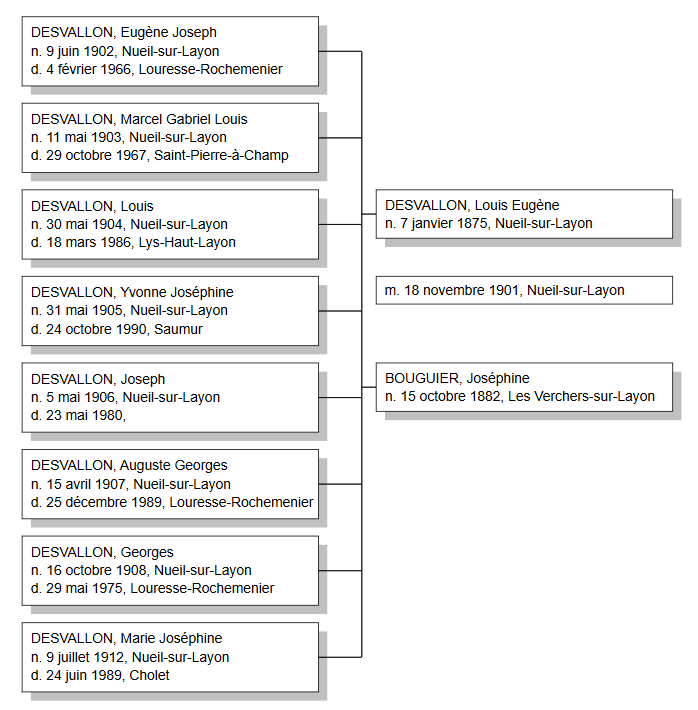
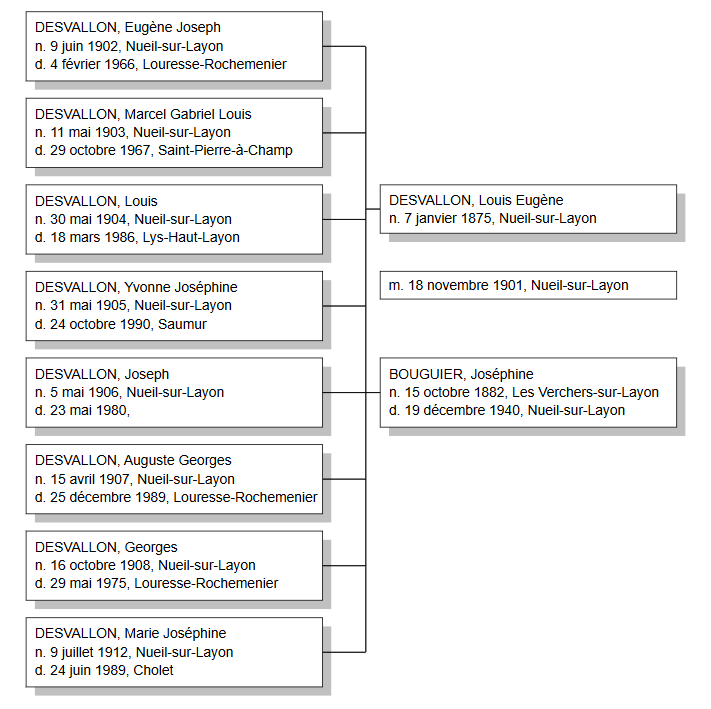
DESVALLON suite

Changed region(s): [[0.0301, 0.0, 0.9928, 0.9929]]

diff --git a/Généalogie.md b/Généalogie.md
@@ -76,7 +76,33 @@ Parfois j'ai des doutes sur certaines informations, auquel cas elles sont en *it
 
 - [Famille DESVALLON](#desvallon)
   
-  - [DESVALLON, Marcel Louis Gabriel](#desvallon1)
+  - Grand-père et arrières-grands-parents paternels
+    
+    - [DESVALLON, Marcel Louis Gabriel](#desvallon1)
+    
+    - [DESVALLON, Marcel Gabriel Louis](#desvallon2)
+    
+    - [POUPARD, Yvonne](#desvallon3)
+  
+  - Trisaïeuls paternels (les parents de l'arrière-grand père)
+    
+    - [DESVALLON, Louis Eugène](#desvallon4)
+    
+    - [BOUGUIER, Joséphine](#desvallon5)
+    
+    - [Mariage de Louis DESVALLON et de Joséphine BOUGUIER](#desvallonbouguier)
+  
+  - Quadrisaïeuls paternels
+    
+    - [DESVALLON, Henri Pierre](#desvallon6)
+    
+    - [JOUET, Françoise Francisque](#desvallon7)
+    
+    - [Mariage de Henri DESVALLON et de Françoise JOUET](#desvallonjouet)
+  
+  - Quinquisaïeuls paternels
+  
+  - 
 
 ---
 
@@ -701,11 +727,11 @@ Source : [https://archives-deux-sevres-vienne.fr/ark:/58825/vta9d80c608f03495a9/
 
 ## VION, Pierre <a name="vion10"/>
 
-### Acte de naissance
+### Acte de naissance, Beaulieu-sous-Bressuire, 10 mars 1780
 
 Malheureusement les actes de naissances à Beaulieu n'existent que depuis 1795.
 
-### Acte de décès
+### Acte de décès, Nueil-les-Aubiers, 23 août 1857
 
 <img src="./ActeDeces/vion_pierre.png"/>
 
@@ -761,11 +787,11 @@ A comparu Pierre Louis VEILLON, métayer à Nueil
 
 ## MOREAU, Marie Madeleine <a name="vion11"/>
 
-### Acte de naissance
+### Acte de naissance, Brétignolles, 28 nobembre 1782
 
 Malheureusement les actes de naissances à Brétignolles n'existent que depuis 1803.
 
-## Acte de décès
+## Acte de décès, La Coudre, 3 mars 1845
 
 <img src="./ActeDeces/moreau_marie.png"/>
 
@@ -844,7 +870,7 @@ se serait marié probablement à Boismé (commune de naissance de son épouse) a
 
 ## RICHARD, Perrine <a name="vion13"/>
 
-### Acte de décès
+### Acte de décès, Beaulieu-sous-Bressuire, 31 janvier 1815
 
 <img src="./ActeDeces/richard_perrine.png"/>
 
@@ -878,7 +904,7 @@ Les arrières-grands-parents DESVALLON sont issus du Maine-et-Loire, qui est un 
 
 Source : "[DESVALLON MARCEL GABRIEL LOUIS (1927 - 1974) &#224; Cersay - d&#233;c&#232;s](https://deces.politologue.com/desvallon-marcel-gabriel-louis.uOvYVG70rO7OVpv0MO9jKOvjROLThGv0rG7Y9GLn)"
 
-## DESVALLON, Marcel <a name="desvallon2"/>
+## DESVALLON, Marcel Gabriel Louis <a name="desvallon2"/>
 
 ### Succession
 
@@ -890,22 +916,229 @@ Source : [https://archives-deux-sevres-vienne.fr/ark:/58825/vta156cbad4a8c6111a/
 
 Source : [POUPARD YVONNE (1906 - 1994) &#224; Saumur - d&#233;c&#232;s](https://deces.politologue.com/poupard-yvonne.uOvYRG70gOvX8pvOApP0-OL-MCvXrpv0MOvjApvxROv08)
 
-
-
 ## Condamnation pour vol d'octobre 1927
 
 <img src="./Justice/tribunal_saumur_1927.png"/>
 
 Source : [L'Ouest-Éclair | 1927-10-10 | Gallica](https://gallica.bnf.fr/ark:/12148/bpt6k612106k/f6.item.zoom)
 
-
-
-
+---
 
 <img src="./Arbre/desvallon2.png"/>
 
 ## DESVALLON, Louis Eugène <a name="desvallon4"/>
 
+### Acte de naissance, Nueil-sur-Layon, 7 janvier 1875
 
+<img src="./ActeNaissance/desvallon_louis_eugene.png"/>
 
-## BOUGUIER Joséphine <a name="desvallon5"/>
+Source : [Registres d'état civil - Visualiseur](https://www.archinoe.fr/v2/ad49/visualiseur/registre.html?id=490039242)
+
+#### Résumé
+
+| Commune                     | Nueil-sur-Layon, canton de Vihiers                            |
+| --------------------------- | ------------------------------------------------------------- |
+| **Enfant**                  | Gabriel Joseph Alexandre VION                                 |
+| **Naissance**               | 7 janvier 1875 à 15h00                                        |
+| **Père, âge et profession** | Henri DESVALLON, journalier de 42 ans                         |
+| **Mère, âge et profession** | Françoise JOUET, journalière de 38 ans                        |
+| **Domicile**                | La Boissonière, Nueil-sur-Layon                               |
+| **Témoin 1**                | Alexandre Auguste JAUDOIN, instituteur de 32 ans, ami du père |
+| **Témoin 2**                | François DECRON, journalier de 69 ans, ami du père            |
+
+### Service militaire
+
+<img src="./Militaire/desvallon_louis.png"/>
+
+Source : [1 R 1246 - Classe 1895 - matricule n°1297 - Visualiseur](https://www.archinoe.fr/v2/ark:/71821/56701557196d982e417d724773da3ae0)
+
+Matricule n° 1297, Louis Eugène DESVALLON
+
+Né le 7 janvier 1875 à Nueil s/ Passavant, canton de Vihiers, y résidant, fils de Henri DESVALLON et de Françoise JOUET, habitants aussi à Nueil s/ Passavant
+
+Cheveux et sourcils bruns, yeux roux, front ordinaire, nez moyen, bouche moyenne, menton rond, visage ovale. Taille : 1m63
+
+Appelé à l'activité le 16 novembre 1896 au 7ème régiment de chasseurs à cheval. Chasseur de 1ère classe
+
+Père de 6 enfants (au moment de la rédaction de la fiche)
+
+## BOUGUIER, Joséphine <a name="desvallon5"/>
+
+### Acte de naissance, Les Verchers-sur-Layon, 15 octobre 1882
+
+<img src="./ActeNaissance/bouguier_josephine.png"/>
+
+Source : [Registres d'état civil - Visualiseur](https://www.archinoe.fr/v2/ad49/visualiseur/registre.html?id=490038742)
+
+#### Résumé
+
+| Commune                     | Les Verchers-sur-Layon, canton de Doué-la-Fontaine  |
+| --------------------------- | --------------------------------------------------- |
+| **Enfant**                  | Joséphine BOUGUIER                                  |
+| **Naissance**               | 15 octobre 1882 à 11h00                             |
+| **Père, âge et profession** | Joseph BOUGUIER, 32 ans, cultivateur                |
+| **Mère, âge et profession** | Modeste Henriette CHARPENTIER, 28 ans, cultivatrice |
+| **Domicile**                | Les Verchers-sur-Layon                              |
+| **Témoin 1**                | Auguste MORILLON, <mark>charron </mark> de 34 ans   |
+| **Témoin 2**                | Pierre COCU, maréchal de 30 ans                     |
+
+Le **<mark>charron</mark>** utilise le bois et le fer pour construire et réparer des véhicules attelés. Le cœur de son métier est sa maîtrise de la roue. Le moyeu est en orme, les raies en acacia et les jantes en frêne.
+
+## Mariage de Louis DESVALLON et de Joséphine BOUGUIER <a name="desvallonbouguier"/>
+
+<img src="./ActeMariage/desvallon_bouguier.png"/>
+
+Source : [Registres d'état civil - Visualiseur](https://www.archinoe.fr/v2/ad49/visualiseur/registre.html?id=490041681)
+
+#### Résumé
+
+| Commune                           | Nueil-sur-Layon, canton de Vihiers                                                                                                              |
+| --------------------------------- | ----------------------------------------------------------------------------------------------------------------------------------------------- |
+| **Mari**                          | Louis Eugène DESVALLON, domestique âgé de 26 ans, né le 7 janvier 1875 dans cette commune. Fils de Henri DESVALLON et , cultivateurs domiciliés |
+| **Femme**                         | Joséphine BOUGUIER, couturière de 19 ans, née le 15 octobre 1882 aux Verchers                                                                   |
+| **Mariage**                       | 18 novembre 1901                                                                                                                                |
+| **Père du marié**                 | Henri DESVALLON, cultivateur à la Caillonnerie de Nueil, ici présent                                                                            |
+| **Mère du marié**                 | Françoise JOUET, cultivateur à la Caillonnerie de Nueil, ici présente                                                                           |
+| **Père de la mariée**             | Joseph BOUGUIER, cultivateur à Nueil, ici présent                                                                                               |
+| **Mère de la mariée**             | Modeste Henriette CHARPENTIER, cultivateur à Nueil, ici présente                                                                                |
+| **Domicile**                      | Nueil-sur-Layon                                                                                                                                 |
+| **Témoin 1 : frère du marié**     | François DESVALLON, cultivateur de 37 ans domicilié à Bouillé-Saint-Paul                                                                        |
+| **Témoin 2 : cousin du marié**    | Auguste FRESNEAU, journalier de 45 ans à Nueil                                                                                                  |
+| **Témoin 3 : oncle de la mariée** | Pierre BOUGUIER, cultivateur de 48 ans à Nueil                                                                                                  |
+| **Témoin 4 : oncle de la mariée** | David LOUIS, cultivateur de 63 ans à Cléré                                                                                                      |
+
+---
+
+<img src="./Arbre/desvallon3.png"/>
+
+## DESVALLON, Henri Pierre <a name="desvallon6">
+
+### Acte de naissance, Moutiers-sous-Argenton, 4 mai 1833
+
+<img src="./ActeNaissance/desvallon_pierre_henri.png"/>
+
+Source : [https://archives-deux-sevres-vienne.fr/ark:/58825/vta38a8995f24456bf9/daogrp/0/layout:table/idsearch:RECH_9f327360164f4f6d8503478c6f421560#id:1120044653?gallery=true&brightness=100.00&contrast=100.00¢er=1440.968,-1845.069&zoom=11&rotation=0.000](https://archives-deux-sevres-vienne.fr/ark:/58825/vta38a8995f24456bf9/daogrp/0/layout:table/idsearch:RECH_9f327360164f4f6d8503478c6f421560#id:1120044653?gallery=true&brightness=100.00&contrast=100.00&center=1440.968,-1845.069&zoom=11&rotation=0.000)
+
+#### Résumé
+
+| Commune                     | Moutiers-sous-Argenton, arrondissement de Bressuire |
+| --------------------------- | --------------------------------------------------- |
+| **Enfant**                  | Pierre Henri DESVALLON                              |
+| **Naissance**               | 4 mai 1833 à 14h00                                  |
+| **Père, âge et profession** | Louis DESVALLON, 46 ans, bordier                    |
+| **Mère, âge et profession** | Louise BRAULT, 34 ans                               |
+| **Domicile**                | Bourg de Moutiers                                   |
+| **Témoin 1**                | Louis MERCERON, cultivateur de 45 ans à Moutiers    |
+| **Témoin 2**                | François MERCERON, cultivateur de 42 ans à Moutiers |
+
+## Acte de décès, Nueil-sur-Layon, 10 décembre 1901
+
+<img src="./ActeDeces/desvallon_henri.png"/>
+
+Source : [Registres d'état civil - Visualiseur](https://www.archinoe.fr/v2/ad49/visualiseur/registre.html?id=490041681)
+
+#### Résumé
+
+| Commune                   | Nueil-sur-Layon, canton de Vihiers                                                 |
+| ------------------------- | ---------------------------------------------------------------------------------- |
+| **Décédé**                | Pierre Henri DESVALLON, jouurnalier de 68 ans, époux de Françoise Francisque JOUET |
+| **le**                    | 10 décembre 1901 à 2h00 du matin                                                   |
+| **Père**                  | Louis DESVALLON, décédé                                                            |
+| **Mère**                  | Louise BRAULT, décédée                                                             |
+| **Domicile**              | La Caillonerie, Nueil-sur-Layon                                                    |
+| **Témoin 1 et déclarant** | Joseph TALBOT, fermier de 59 ans, voisin du défunt                                 |
+| **Témoin 2**              | Pierre MORET, cultivateur de 66 ans, ami du défunt                                 |
+
+## JOUET, Françoise Francisque <a name="desvallon7"/>
+
+### Acte de naissance, Nueil-sur-Layon, 15 décembre 1836
+
+<img src="./ActeNaissance/jouet_francoise.png"/>
+
+Source : [Registres d'état civil - Visualiseur](https://www.archinoe.fr/v2/ad49/visualiseur/registre.html?id=490005397)
+
+#### Résumé
+
+| Commune                     | Nueil-sur-Layon, canton de Vihiers        |
+| --------------------------- | ----------------------------------------- |
+| **Enfant**                  | Françoise Francisque JOUET                |
+| **Naissance**               | 15 décembre 1836 à 6h00 du matin          |
+| **Père, âge et profession** | Louis JOUET, 30 ans, cultivateur          |
+| **Mère, âge et profession** | Margueritte NOMBALAIS, 31 ans             |
+| **Domicile**                | Nueil-sur-Layon                           |
+| **Témoin 1**                | André Lemoine, propriétaire, 24 ans       |
+| **Témoin 2**                | Michel Claude GUJARD, instituteur, 29 ans |
+
+## Mariage de Henri DESVALLON et de Françoise JOUET <a name="desvallonjouet"/>
+
+<img src="./ActeMariage/desvallon_jouet.png"/>
+
+Source : [Registres d'état civil - Visualiseur](https://www.archinoe.fr/v2/ad49/visualiseur/registre.html?id=490005399)
+
+#### Résumé
+
+| Commune                           | Nueil-sur-Layon, canton de Vihiers                          |
+| --------------------------------- | ----------------------------------------------------------- |
+| **Mari**                          | Pierre Henri DESVALLON, domestique,                         |
+| **Femme**                         | Françoise Francisque JOUET, domestique                      |
+| **Mariage**                       | 25 juin 1857                                                |
+| **Père du marié**                 | Louis DESVALLON, décédé à Mauzé-Thouarsais le 11 avril 1849 |
+| **Mère du marié**                 | Louise BRAULT, journalière, ici présente                    |
+| **Père de la mariée**             | Louis JOUET, ici présent                                    |
+| **Mère de la mariée**             | Margueritte NOMBALAIS, ici présente                         |
+| **Domicile**                      | La Touche, les Verchers-sur-Layon                           |
+| **Témoin 1 : frère du marié**     | Alexis DESVALLON, journalier de 42 ans à Nueil              |
+| **Témoin 2 : ami des mariés**     | Suzanne PERDRIX, cordonnier à Nueil de 26 ans               |
+| **Témoin 3 : frère de la mariée** | Jean JOUET, domestique de 24 ans à Nueil                    |
+| **Témoin 4 : ami des mariés**     | Charles LEMOINE, meunier à Nueil de 44 ans                  |
+
+---
+
+<img src="./Arbre/desvallon4.png"/>
+
+## DESVALLON, Louis Alexis
+
+### Baptême, Louin, 27 août 1786
+
+<img src="./ActeNaissance/desvallon_alexis_louis.png"/>
+
+Source : [https://archives-deux-sevres-vienne.fr/ark:/58825/vta39b3739a54f651fc/daogrp/0/layout:table/idsearch:RECH_070c9ef961e726461ccd0738ce4cf696#id:889279093?gallery=true&brightness=100.00&contrast=100.00¢er=1484.533,-1173.236&zoom=10&rotation=0.000](https://archives-deux-sevres-vienne.fr/ark:/58825/vta39b3739a54f651fc/daogrp/0/layout:table/idsearch:RECH_070c9ef961e726461ccd0738ce4cf696#id:889279093?gallery=true&brightness=100.00&contrast=100.00&center=1484.533,-1173.236&zoom=10&rotation=0.000)
+
+#### Résumé
+
+| Commune                     | Louin, entre Bressuire et Parthenay |
+| --------------------------- | ----------------------------------- |
+| **Enfant**                  | Alexis Louis DESVALLON              |
+| **Baptême et naissance**    | 27 août 1786                        |
+| **Père, âge et profession** | Louis DESVALLON                     |
+| **Mère, âge et profession** | Madeleine ROCHARD                   |
+| **Domicile**                | Louin                               |
+| **Parrain**                 | Alexis BERTHONNIAU                  |
+| **Marraine**                | Marine Marie Jeanne JAULAIN         |
+
+### Premier mariage avec Jeanne CLOCHARD à La Chapelle-Gaudin
+
+<img src="./Arbre/desvallon4bis.png"/>
+
+<img src="./ActeMariage/desvallon_clochard.png"/>
+
+Source : [https://archives-deux-sevres-vienne.fr/ark:/58825/vta95c8bae27bc1820e/daogrp/0/layout:table/idsearch:RECH_93d969024badb02de635635579bf8bb9#id:1446391965?gallery=true&brightness=100.00&contrast=100.00¢er=1799.594,-1055.046&zoom=7&rotation=0.000](https://archives-deux-sevres-vienne.fr/ark:/58825/vta95c8bae27bc1820e/daogrp/0/layout:table/idsearch:RECH_93d969024badb02de635635579bf8bb9#id:1446391965?gallery=true&brightness=100.00&contrast=100.00&center=1799.594,-1055.046&zoom=7&rotation=0.000)
+
+#### Résumé
+
+| Commune                           | Nueil-sur-Layon, canton de Vihiers                                                                                                              |
+| --------------------------------- | ----------------------------------------------------------------------------------------------------------------------------------------------- |
+| **Mari**                          | Louis Eugène DESVALLON, domestique âgé de 26 ans, né le 7 janvier 1875 dans cette commune. Fils de Henri DESVALLON et , cultivateurs domiciliés |
+| **Femme**                         | Joséphine BOUGUIER, couturière de 19 ans, née le 15 octobre 1882 aux Verchers                                                                   |
+| **Mariage**                       | 18 novembre 1901                                                                                                                                |
+| **Père du marié**                 | Henri DESVALLON, cultivateur à la Caillonnerie de Nueil, ici présent                                                                            |
+| **Mère du marié**                 | Françoise JOUET, cultivateur à la Caillonnerie de Nueil, ici présente                                                                           |
+| **Père de la mariée**             | Joseph BOUGUIER, cultivateur à Nueil, ici présent                                                                                               |
+| **Mère de la mariée**             | Modeste Henriette CHARPENTIER, cultivateur à Nueil, ici présente                                                                                |
+| **Domicile**                      | Nueil-sur-Layon                                                                                                                                 |
+| **Témoin 1 : frère du marié**     | François DESVALLON, cultivateur de 37 ans domicilié à Bouillé-Saint-Paul                                                                        |
+| **Témoin 2 : cousin du marié**    | Auguste FRESNEAU, journalier de 45 ans à Nueil                                                                                                  |
+| **Témoin 3 : oncle de la mariée** | Pierre BOUGUIER, cultivateur de 48 ans à Nueil                                                                                                  |
+| **Témoin 4 : oncle de la mariée** | David LOUIS, cultivateur de 63 ans à Cléré                                                                                                      |
+
+### Acte de décès, Mauzé-Thouarsais, 11 avril 1849

diff --git a/tampon.md b/tampon.md
@@ -5,3 +5,7 @@
 - Une fois la ligne trouvée, regarder la colonne "dates des déclarations de successions, dons ou legs". Elle peut être plusieurs mois après le décès d'ou l'intérêt de regarder ici.
 
 - Puis une fois la date trouvée il suffit de consulter le registre des déclarations de successions
+
+Idée : retrouver des photos des lieux d'habitation
+
+Pierre Alexis DESVALLON mort en 1876 à NSL, ptete un frère 
